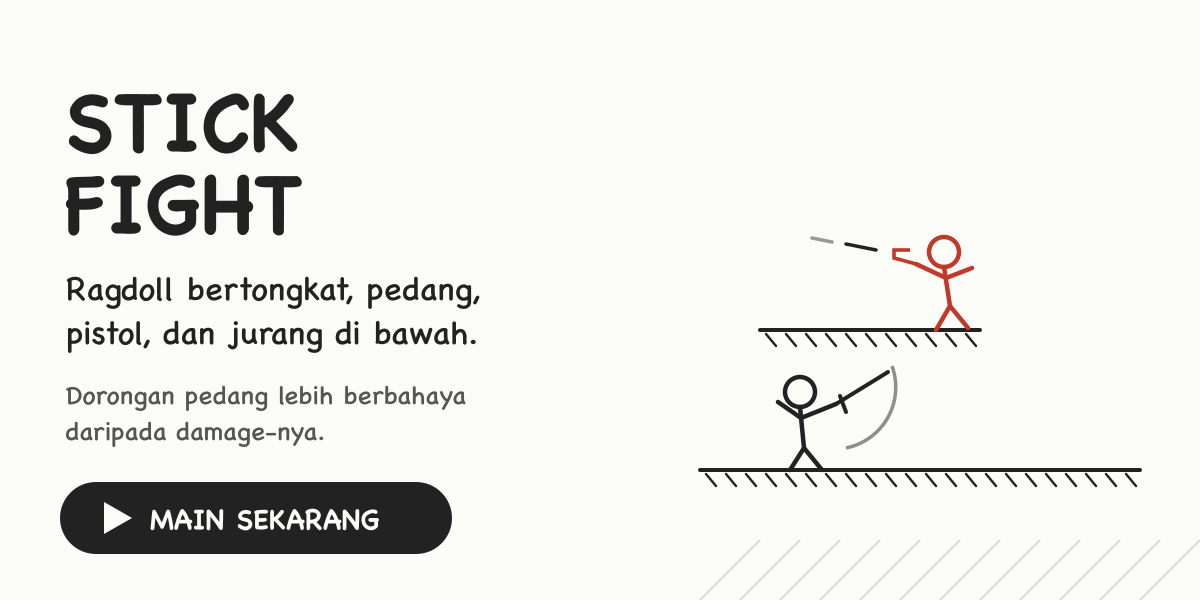
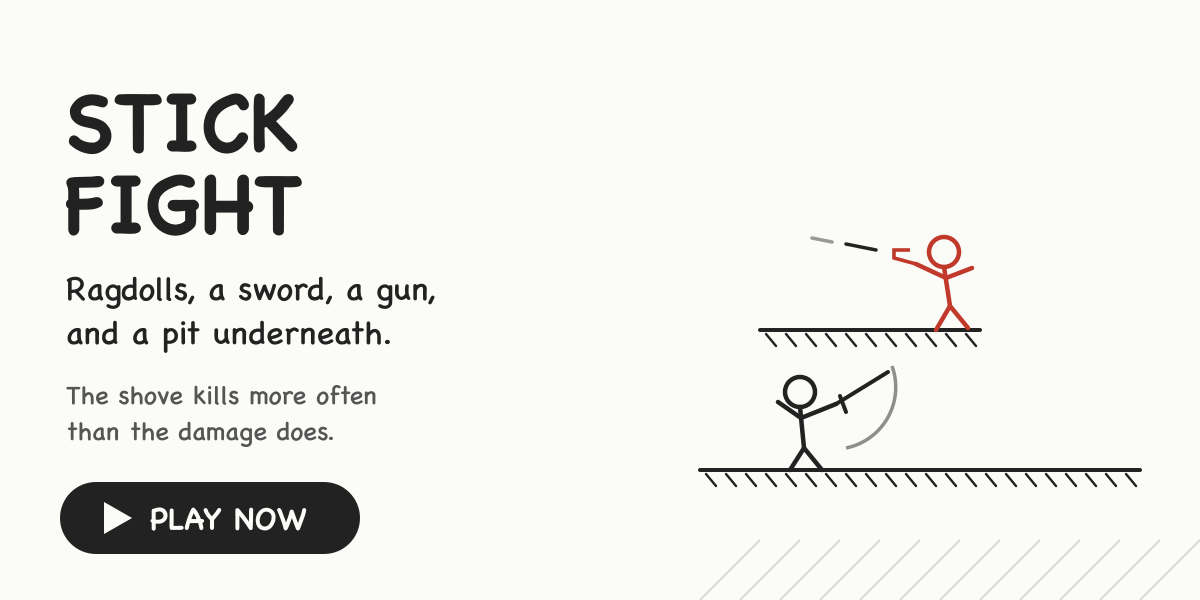
Stick Fight speaks English, and down drops you through a platform
Every string in the game is English now — menu, room lobby, weapon bar,
scoreboard, prompts, death and win banners, bot names — and the poster with it.
The rest of the blog stays Indonesian; this post is the odd one out because it
is a game rather than writing.

Down now means what it means in a fighting game. On a deck with another deck
under it, pressing down drops you through: collision with that one platform is
suspended for twenty ticks, so you fall to the next one instead of crouching at
the edge of it. On the lowest deck, where there is nothing below but the void,
it still crouches. Verified across three generated maps: pressing down on a
stacked deck falls 90-208px and lands, and on the lowest deck the hips drop
12px and stay grounded.

diff --git a/assets/js/stickfight-sim.js b/assets/js/stickfight-sim.js
@@ -173,7 +173,7 @@
       id: id, name: (name || 'anon').slice(0, 12), color: colorIdx || i,
       hp: MAX_HP, kills: 0, deaths: 0, dead: false, respawn: 0,
       weapon: 'fist', ammo: 0, cd: 0, flail: 0, facing: 1, grounded: false,
-      aim: 0, walk: 0, stride: 0, duckAmt: 1, swing: 0, swingKind: '', swingAim: 0, jumpCool: 0, coyote: 0,
+      aim: 0, walk: 0, stride: 0, duckAmt: 1, swing: 0, swingKind: '', swingAim: 0, jumpCool: 0, coyote: 0, dropT: 0, dropY: -1,
       spin: 0, spinAim: 0, spinHits: null, spray: 0, sprayT: 0, sprayDir: 1, lastHitBy: null, lastHitAt: -999,
       pts: [], input: { l: 0, r: 0, jump: 0, duck: 0, fire: 0, discard: 0, special: 0, aim: 0 }
     };
@@ -255,6 +255,7 @@
       if (solid) {
         for (var j = 0; j < world.platforms.length; j++) {
           var pl = world.platforms[j];
+          if (p.dropT > 0 && pl.y === p.dropY) continue;   // dropping through this one
           if (q.x < pl.x - 3 || q.x > pl.x + pl.w + 3) continue;
           // Land either by crossing the top surface this tick (however fast), or
           // by already standing on this platform and having sagged a few px into
@@ -281,6 +282,27 @@
       if (q.x < 6) { q.x = 6; q.ox = q.x + (q.ox - q.x) * 0.4; }
       if (q.x > W - 6) { q.x = W - 6; q.ox = q.x + (q.ox - q.x) * 0.4; }
     }
+  }
+
+  // The deck a foot is planted on, or -1.
+  function standingOn(p) {
+    var a = p.pts[FOOTL].g, b = p.pts[FOOTR].g;
+    if (a >= 0 && b >= 0) return Math.min(a, b);
+    return a >= 0 ? a : b;
+  }
+
+  // Down means two different things, the way it does in a fighting game: on a
+  // deck with something under it you drop through, and on the lowest one — with
+  // nothing below but the void — you crouch instead.
+  function deckBelow(world, p, y) {
+    var hips = p.pts[HIPS];
+    for (var i = 0; i < world.platforms.length; i++) {
+      var pl = world.platforms[i];
+      if (pl.y <= y + 8) continue;
+      if (hips.x < pl.x - 10 || hips.x > pl.x + pl.w + 10) continue;
+      return true;
+    }
+    return false;
   }
 
   // Posture is solved as constraints, in the same relaxation loop as the links.
@@ -648,7 +670,16 @@
       if (p.flail > 0) p.flail--;
       if (p.swing > 0) p.swing--;
       p.aim = p.input.aim;
-      p.duckAmt = (p.input.duck && p.grounded && p.flail <= 0) ? 0.58 : 1;
+      if (p.dropT > 0) p.dropT--;
+      var stand = standingOn(p);
+      var canDrop = p.grounded && stand >= 0 && deckBelow(world, p, stand);
+      if (p.input.duck && !p._ducked) {
+        p._ducked = true;
+        if (canDrop && p.flail <= 0) { p.dropT = 20; p.dropY = stand; p.coyote = 0; }
+      }
+      if (!p.input.duck) p._ducked = false;
+      // crouching only where there is nothing to drop to
+      p.duckAmt = (p.input.duck && p.grounded && p.flail <= 0 && !canDrop && p.dropT <= 0) ? 0.58 : 1;
 
       // jump: shove the whole body up, once per press
       if (p.input.jump && p.grounded && p.flail <= 0 && !p._jumped) {

diff --git a/_posts/2026-08-12-stick-fight.md b/_posts/2026-08-12-stick-fight.md
@@ -3,7 +3,7 @@ layout: post
 title: Stick Fight
 comments: true
 thumbnail: /assets/img/2026-08-12-stick-fight.png
-teaser: "Ragdoll bertongkat di peta yang diacak tiap ronde. Semua mulai bertangan kosong; pedang dan pistol baru turun belakangan, dan dorongan pedang lebih berbahaya daripada damage-nya."
+teaser: "Ragdoll stickmen on a map that is generated fresh for every room. Everyone starts bare-handed; swords and guns drop in later, and a sword's shove is deadlier than its damage."
 ---
 
 <style>
@@ -111,21 +111,21 @@ teaser: "Ragdoll bertongkat di peta yang diacak tiap ronde. Semua mulai bertanga
   <span id="sf-gear-what">✊ TANGAN</span>
   <span id="sf-gear-dmg"></span>
   <span id="sf-gear-ammo"></span>
-  <button type="button" id="sf-drop" disabled>buang</button>
+  <button type="button" id="sf-drop" disabled>drop</button>
 </div>
 <div id="sf-wrap" class="with-menu">
   <canvas id="sf-canvas" width="960" height="540"></canvas>
-  <button id="sf-exit" hidden title="kembali ke menu (Esc)">✕ menu</button>
+  <button id="sf-exit" hidden title="back to the menu (Esc)">✕ menu</button>
   <div id="sf-menu">
     <h2>🥢 STICK FIGHT</h2>
-    <p id="sf-tagline">Ragdoll bertongkat. Pedang mendorong keras, pistol menjangkau jauh, dan jurangnya tidak memaafkan.</p>
+    <p id="sf-tagline">Ragdoll stickmen. The sword shoves hard, the gun reaches far, and the pit forgives nothing.</p>
     <div class="row">
-      <input id="sf-name" maxlength="12" placeholder="namamu" />
-      <button id="sf-solo">Main lawan bot</button>
+      <input id="sf-name" maxlength="12" placeholder="your name" />
+      <button id="sf-solo">Play vs bots</button>
     </div>
     <div class="row">
-      <button id="sf-create" class="ghost">Buat room</button>
-      <button id="sf-join" class="ghost">Gabung room</button>
+      <button id="sf-create" class="ghost">Create room</button>
+      <button id="sf-join" class="ghost">Join room</button>
     </div>
     <p id="sf-note"></p>
     <div id="sf-rooms" hidden></div>
@@ -140,18 +140,18 @@ teaser: "Ragdoll bertongkat di peta yang diacak tiap ronde. Semua mulai bertanga
     <button class="sf-btn dn" data-k="duck">▼</button>
   </div>
   <div id="sf-aimwrap">
-    <canvas id="sf-aimpad" width="256" height="256" title="arahkan lalu lepas untuk menyerang"></canvas>
-    <button type="button" id="sf-special" disabled>✷ <span>SPESIAL</span></button>
+    <canvas id="sf-aimpad" width="256" height="256" title="drag to aim, let go to attack"></canvas>
+    <button type="button" id="sf-special" disabled>✷ <span>SPECIAL</span></button>
   </div>
 </div>
 </div>
 
 <p id="sf-help">
-  <b>Keyboard:</b> A/D jalan, W lompat, S merunduk. Panah (atau gerakkan mouse) untuk mengarahkan senjata, <b>spasi</b> atau klik untuk menyerang.<br>
-  <b>HP:</b> di layar sentuh, tombol arah di kiri; lingkaran di kanan untuk mengarahkan senjata — <b>lepas jarimu untuk menyerang</b>.<br>
-  <b>Spesial (tombol ✷ atau E):</b> pedang berputar 360° dan melempar semua yang kena; pistol memberondong kiri-kanan sampai habis. Dua-duanya menghabiskan senjatanya.<br>
-  <b>Senjata:</b> tombol <b>buang</b> (atau Q) melepas senjatamu. Semua mulai bertangan kosong (7 damage). Pedang (22 + dorongan keras) dan pistol (14, 8 butir) muncul sendiri di peta tiap beberapa detik — ambil dengan menabraknya.<br>
-  <b>Jatuh ke jurang tetap mati</b> — dorongan pedang lebih berbahaya daripada damage-nya. Petanya diacak tiap ronde.
+  <b>Keyboard:</b> A/D to walk, W to jump, S to crouch — or to drop through a platform when there is one below you. Arrows (or the mouse) aim the weapon, <b>space</b> or click attacks.<br>
+  <b>Touch:</b> the d-pad on the left, the ring on the right to aim — <b>lift your finger to attack</b>.<br>
+  <b>Special (✷ or E):</b> the sword spins a full circle and throws everyone it touches; the gun sprays left and right until the magazine is empty. Both use the weapon up.<br>
+  <b>Weapons:</b> <b>drop</b> (or Q) throws yours away. Everyone starts bare-handed (7 damage). Swords (22 plus a heavy shove) and guns (14, 8 rounds) drop onto the map every few seconds — walk into one to pick it up.<br>
+  <b>Falling into the pit still kills you</b> — a sword's shove is deadlier than its damage. The map is generated fresh every round.
 </p>
 
 <script src="/assets/js/stickfight-sim.js"></script>
@@ -167,9 +167,9 @@ teaser: "Ragdoll bertongkat di peta yang diacak tiap ronde. Semua mulai bertanga
   var wrap = document.getElementById('sf-wrap');
   var controls = document.getElementById('sf-controls');
   var ap = document.getElementById('sf-aimpad');
-  if (!S || !cv || !cv.getContext) { if (menu) menu.innerHTML = '<p>Perangkat ini tidak bisa menjalankan gamenya.</p>'; return; }
+  if (!S || !cv || !cv.getContext) { if (menu) menu.innerHTML = '<p>This device cannot run the game.</p>'; return; }
   var ctx = cv.getContext('2d');
-  if (!ctx) { menu.innerHTML = '<p>Canvas tidak tersedia.</p>'; return; }
+  if (!ctx) { menu.innerHTML = '<p>Canvas is not available.</p>'; return; }
 
   // The room server: a Worker with one Durable Object per room code.
   // See server/ in the repo. Set sf_server in localStorage to point at a local
@@ -618,15 +618,15 @@ teaser: "Ragdoll bertongkat di peta yang diacak tiap ronde. Semua mulai bertanga
     var cw = cv.width, ch = cv.height;
     var u = Math.max(13, Math.min(20, cw / 28));
     if (me && me.dead) {
-      txt('mati — hidup lagi dalam ' + Math.ceil(me.respawn / 60) + 's',
+      txt('down — respawning in ' + Math.ceil(me.respawn / 60) + 's',
           cw / 2, ch * 0.13, u * 1.4, '#c0392b', true);
     }
     if (winner) {
       ctx.save();
       ctx.fillStyle = 'rgba(251,251,247,.88)';
       ctx.fillRect(0, ch / 2 - u * 3.4, cw, u * 6.8);
-      txt(winner + ' menang', cw / 2, ch / 2 + u * 0.2, u * 2.4, INK, true);
-      txt('klik untuk main lagi', cw / 2, ch / 2 + u * 2.4, u, '#666');
+      txt(winner + ' wins', cw / 2, ch / 2 + u * 0.2, u * 2.4, INK, true);
+      txt('click to play again', cw / 2, ch / 2 + u * 2.4, u, '#666');
       ctx.restore();
     }
   }
@@ -639,8 +639,8 @@ teaser: "Ragdoll bertongkat di peta yang diacak tiap ronde. Semua mulai bertanga
   var gearAmmo = document.getElementById('sf-gear-ammo');
   var dropBtn = document.getElementById('sf-drop');
   var gearLast = '';
-  var GEAR_NAME = { fist: '✊ TANGAN', sword: '⚔ PEDANG', gun: '🔫 PISTOL' };
-  var GEAR_PUSH = { fist: 'dorongan kecil', sword: 'dorongan kuat', gun: 'dorongan kecil' };
+  var GEAR_NAME = { fist: '✊ FISTS', sword: '⚔ SWORD', gun: '🔫 GUN' };
+  var GEAR_PUSH = { fist: 'light shove', sword: 'heavy shove', gun: 'light shove' };
   function drawGear() {
     if (!gearEl || !me) return;
     var wp = S.WEAPONS[me.weapon];
@@ -649,13 +649,13 @@ teaser: "Ragdoll bertongkat di peta yang diacak tiap ronde. Semua mulai bertanga
     gearLast = sig;
     gearWhat.textContent = GEAR_NAME[me.weapon] || me.weapon;
     gearDmg.textContent = wp.dmg + ' dmg · ' + GEAR_PUSH[me.weapon] +
-      ' · jeda ' + (wp.cd / 60).toFixed(2) + 's';
-    gearAmmo.textContent = wp.ammo ? '· ' + me.ammo + ' butir' : '';
+      ' · ' + (wp.cd / 60).toFixed(2) + 's cooldown';
+    gearAmmo.textContent = wp.ammo ? '· ' + me.ammo + ' rounds' : '';
     dropBtn.disabled = me.weapon === 'fist';
     if (specialBtn) {
       // the special spends the weapon, so it is only offered while you hold one
       specialBtn.disabled = me.weapon === 'fist';
-      var label = SPECIAL_NAME[me.weapon] || '✷ SPESIAL';
+      var label = SPECIAL_NAME[me.weapon] || '✷ SPECIAL';
       if (me.weapon === 'gun') label += ' ×' + me.ammo;   // it sprays what is left
       if (specialBtn.textContent !== label) specialBtn.textContent = label;
     }
@@ -666,7 +666,7 @@ teaser: "Ragdoll bertongkat di peta yang diacak tiap ronde. Semua mulai bertanga
     });
   }
   var specialBtn = document.getElementById('sf-special');
-  var SPECIAL_NAME = { sword: '✷ PUTAR', gun: '✷ BERONDONG', fist: '✷ SPESIAL' };
+  var SPECIAL_NAME = { sword: '✷ SPIN', gun: '✷ SPRAY', fist: '✷ SPECIAL' };
   if (specialBtn) {
     specialBtn.addEventListener('pointerdown', function (e) {
       e.preventDefault();
@@ -714,7 +714,7 @@ teaser: "Ragdoll bertongkat di peta yang diacak tiap ronde. Semua mulai bertanga
       }
       var goal = document.createElement('span');
       goal.className = 'goal';
-      goal.textContent = 'sampai ' + KILLS_TO_WIN + ' kill' +
+      goal.textContent = 'first to ' + KILLS_TO_WIN + ' kills' +
         (mode === 'online' ? (myPing ? ' · ' + myPing + 'ms' : ' · online') : '');
       scoreEl.appendChild(goal);
     }
@@ -819,12 +819,12 @@ teaser: "Ragdoll bertongkat di peta yang diacak tiap ronde. Semua mulai bertanga
   }
 
   function startSolo() {
-    var name = (nameEl.value || 'kamu').slice(0, 12);
+    var name = (nameEl.value || 'you').slice(0, 12);
     try { localStorage.setItem('sf_name', name); } catch (e) {}
     world = S.createWorld(Date.now() % 100000);   // new arena every match
     me = S.addPlayer(world, 'me', name, 0);
     bots = [];
-    var botNames = ['botak', 'bonar', 'bombom'];
+    var botNames = ['rex', 'nyx', 'vex'];
     for (var i = 0; i < 3; i++) bots.push(S.addPlayer(world, 'b' + i, botNames[i], i + 1));
     winner = null;
     mode = 'solo';
@@ -899,9 +899,9 @@ teaser: "Ragdoll bertongkat di peta yang diacak tiap ronde. Semua mulai bertanga
   }
 
   function connect(code, password, ping) {
-    var name = (nameEl.value || 'kamu').slice(0, 12);
+    var name = (nameEl.value || 'you').slice(0, 12);
     try { localStorage.setItem('sf_name', name); } catch (e) {}
-    note.textContent = 'Menyambung ke ' + code + '…';
+    note.textContent = 'Connecting to ' + code + '…';
     var url = NET_URL.replace(/^http/, 'ws') + '/room/' + code + '/ws?name=' +
               encodeURIComponent(name) + '&pw=' + encodeURIComponent(password || '');
     ws = new WebSocket(url);
@@ -943,17 +943,17 @@ teaser: "Ragdoll bertongkat di peta yang diacak tiap ronde. Semua mulai bertanga
     ws.onclose = function () {
       if (mode !== 'online') return;
       mode = 'menu'; showMenu(); ws = null;
-      note.textContent = 'Sambungan terputus.';
+      note.textContent = 'Disconnected.';
     };
-    ws.onerror = function () { note.textContent = 'Gagal menyambung.'; };
+    ws.onerror = function () { note.textContent = 'Could not connect.'; };
   }
 
   function refreshRooms() {
     roomsEl.hidden = false;
-    roomsEl.innerHTML = '<div>mencari room…</div>';
+    roomsEl.innerHTML = '<div>looking for rooms…</div>';
     api('/lobby/list').then(function (data) {
       var rooms = (data.rooms || []).slice(0, 12);
-      if (!rooms.length) { roomsEl.innerHTML = '<div>belum ada room. buat satu?</div>'; return; }
+      if (!rooms.length) { roomsEl.innerHTML = '<div>no rooms yet — create one?</div>'; return; }
       return Promise.all(rooms.map(function (r) {
         return pingRoom(r.code).then(function (ms) { r.ping = ms; return r; });
       })).then(function (list) {
@@ -966,8 +966,8 @@ teaser: "Ragdoll bertongkat di peta yang diacak tiap ronde. Semua mulai bertanga
             '<span>' + r.players + '/' + r.max + ' · ' +
             (r.ping > 3000 ? '—' : r.ping + 'ms') + '</span>';
           row.addEventListener('click', function () {
-            if (r.players >= r.max) { note.textContent = 'Room itu sudah penuh.'; return; }
-            var pw = r.private ? (window.prompt('Password room ' + r.code) || '') : '';
+            if (r.players >= r.max) { note.textContent = 'That room is full.'; return; }
+            var pw = r.private ? (window.prompt('Password for room ' + r.code) || '') : '';
             if (r.private && !pw) return;
             connect(r.code, pw, r.ping);
           });
@@ -975,7 +975,7 @@ teaser: "Ragdoll bertongkat di peta yang diacak tiap ronde. Semua mulai bertanga
         });
       });
     }).catch(function () {
-      roomsEl.innerHTML = '<div>server tidak menjawab.</div>';
+      roomsEl.innerHTML = '<div>the server is not answering.</div>';
     });
   }
 
@@ -987,13 +987,13 @@ teaser: "Ragdoll bertongkat di peta yang diacak tiap ronde. Semua mulai bertanga
 
   if (!NET_URL) {
     createBtn.disabled = joinBtn.disabled = true;
-    note.textContent = 'Room online belum aktif — servernya belum dipasang.';
+    note.textContent = 'Online rooms are off — no server is configured.';
   } else {
     createBtn.addEventListener('click', function () {
-      var rn = window.prompt('Nama room:', 'ruang ' + (nameEl.value || 'kita'));
+      var rn = window.prompt('Room name:', (nameEl.value || 'our') + "'s room");
       if (rn === null) return;
-      var pw = window.prompt('Password (kosongkan kalau mau room terbuka):', '') || '';
-      note.textContent = 'Membuat room…';
+      var pw = window.prompt('Password (leave blank for a public room):', '') || '';
+      note.textContent = 'Creating room…';
       api('/lobby/create', {
         method: 'POST',
         headers: { 'Content-Type': 'application/json' },
@@ -1001,7 +1001,7 @@ teaser: "Ragdoll bertongkat di peta yang diacak tiap ronde. Semua mulai bertanga
       }).then(function (res) {
         if (res.error) { note.textContent = res.error; return; }
         connect(res.code, pw, 0);
-      }).catch(function () { note.textContent = 'Gagal membuat room.'; });
+      }).catch(function () { note.textContent = 'Could not create the room.'; });
     });
     joinBtn.addEventListener('click', refreshRooms);
   }
